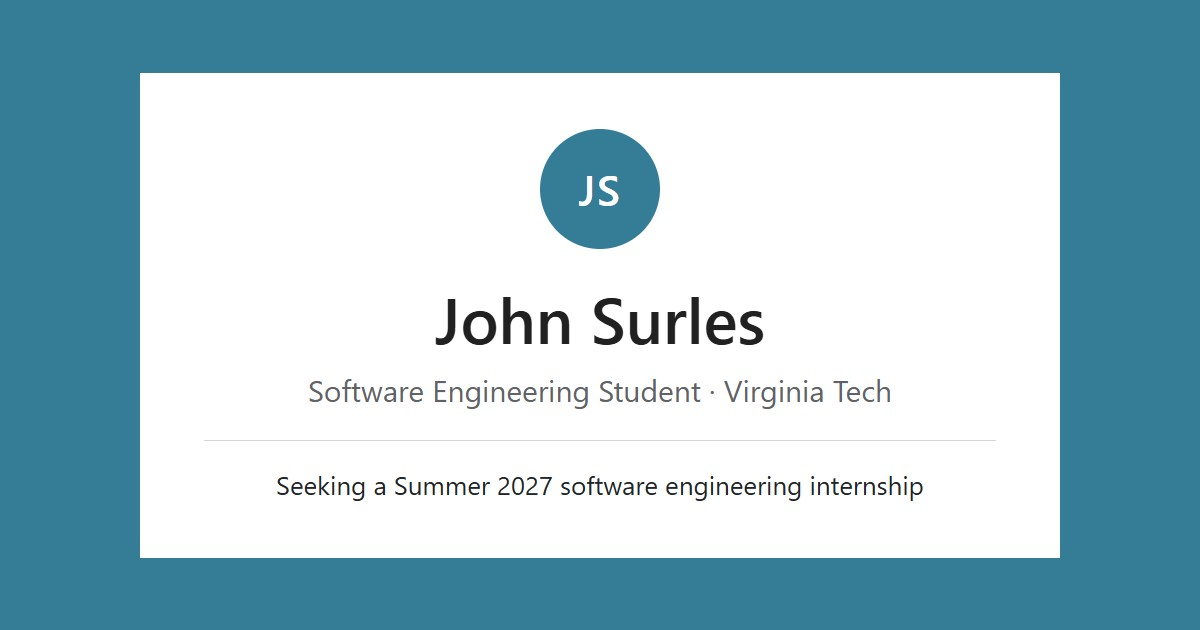
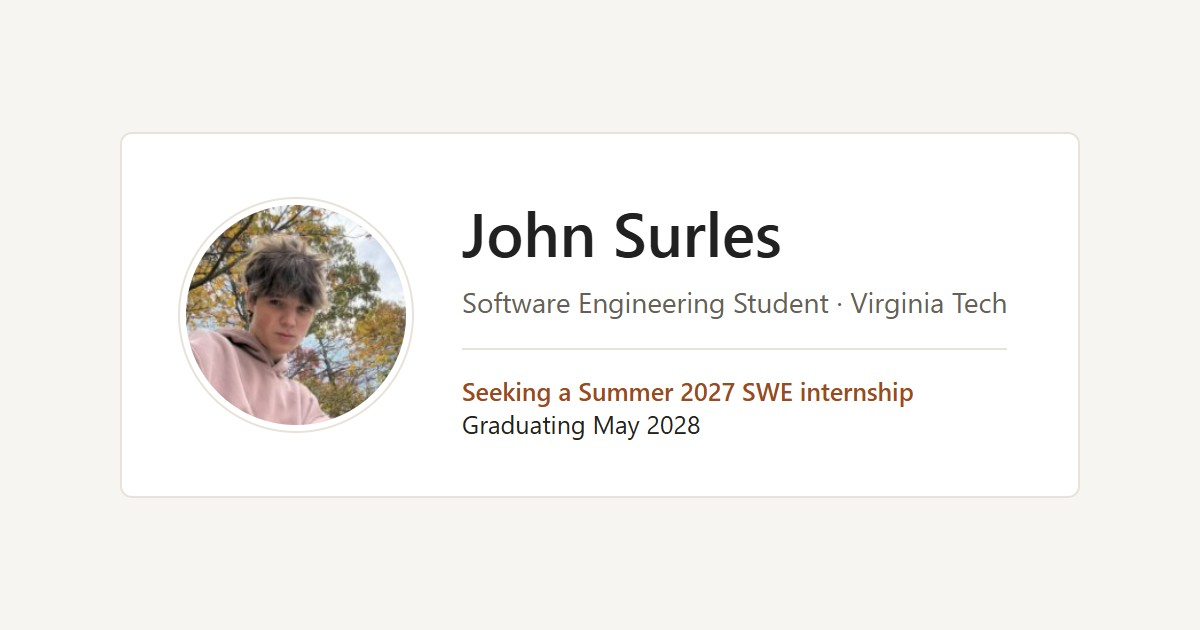
Profile photo and a warm palette matched to it
- LinkedIn profile photo (192px JPEG/WebP, about 14 KB) replaces the JS monogram.
- Warm neutral page and text with a rust accent (#9a4a1f, 6.2:1 on white) taken
  from the autumn leaves in the photo; muted text stays at 5.4:1 or better.
- Social card shows the photo; favicon and touch icon use the rust monogram.

diff --git a/scripts/social-card.html b/scripts/social-card.html
@@ -4,22 +4,25 @@
 <html lang="en"><head><meta charset="utf-8"><title>Social card</title>
 <style>
 *{box-sizing:border-box}html,body{margin:0}
-body{width:1200px;height:630px;display:grid;place-items:center;background:#357c96;font-family:Rubik,system-ui,'Segoe UI',Roboto,Arial,sans-serif;color:#212529}
-.card{width:920px;padding:56px 64px;background:#fff;text-align:center}
-.mark{display:grid;place-items:center;width:120px;height:120px;margin:0 auto 26px;border-radius:50%;background:#357c96;color:#fff;font-size:42px;font-weight:500;letter-spacing:.04em}
-h1{margin:0;font-size:64px;font-weight:500;color:rgba(0,0,0,.87)}
-.sub{margin:10px 0 0;font-size:30px;color:#5f6368}
-.status{margin:30px 0 0;padding-top:26px;border-top:1px solid rgba(0,0,0,.16);font-size:26px}
-body.icon{width:180px;height:180px;background:#357c96}
+body{width:1200px;height:630px;display:grid;place-items:center;background:#f7f5f2;font-family:Rubik,system-ui,'Segoe UI',Roboto,Arial,sans-serif;color:#24201d}
+.card{width:960px;padding:56px 64px;background:#fff;border:2px solid #e8e2db;border-radius:12px;display:flex;align-items:center;gap:56px}
+.photo{width:220px;height:220px;border-radius:50%;object-fit:cover;flex:none;box-shadow:0 0 0 6px #fff,0 0 0 8px #e8e2db}
+h1{margin:0;font-size:62px;font-weight:500;color:rgba(0,0,0,.87)}
+.sub{margin:10px 0 0;font-size:28px;color:#685f57}
+.status{margin:28px 0 0;padding-top:24px;border-top:2px solid #e8e2db;font-size:25px}
+.status b{color:#9a4a1f;font-weight:500}
+body.icon{width:180px;height:180px;background:#9a4a1f}
 body.icon .card{display:none}
 .icon-mark{display:none}body.icon .icon-mark{display:grid;place-items:center;width:180px;height:180px;color:#fff;font-size:72px;font-weight:500;letter-spacing:.04em}
 </style></head>
 <body>
 <div class="card">
- <div class="mark">JS</div>
- <h1>John Surles</h1>
- <p class="sub">Software Engineering Student · Virginia Tech</p>
- <p class="status">Seeking a Summer 2027 software engineering internship</p>
+ <img class="photo" src="../public/images/profile.jpg" alt="">
+ <div>
+  <h1>John Surles</h1>
+  <p class="sub">Software Engineering Student · Virginia Tech</p>
+  <p class="status"><b>Seeking a Summer 2027 SWE internship</b><br>Graduating May 2028</p>
+ </div>
 </div>
 <div class="icon-mark">JS</div>
 <script>if (location.hash === '#icon') document.body.className = 'icon';</script>

diff --git a/public/styles.css b/public/styles.css
@@ -2,15 +2,17 @@
    (links, active tab, monogram, focus). Change --accent and --accent-tint together; keep --accent at
    4.5:1 or better on white. */
 :root {
-  --page: #f4f5f7;
+  /* Warm neutrals with a rust accent taken from the autumn leaves in the profile photo
+     (#9a4a1f is about 6.2:1 on white; muted text is about 5.8:1 on white, 5.4:1 on the page). */
+  --page: #f7f5f2;
   --surface: #fff;
-  --line: #e1e4e8;
-  --accent: #1f6680;
-  --accent-tint: #e8f1f5;
-  --ink: #1f2328;
-  --muted: #5f6368;
-  --rule: rgba(0, 0, 0, .12);
-  --rule-strong: rgba(0, 0, 0, .16);
+  --line: #e8e2db;
+  --accent: #9a4a1f;
+  --accent-tint: #f8eee6;
+  --ink: #24201d;
+  --muted: #685f57;
+  --rule: rgba(60, 40, 20, .12);
+  --rule-strong: rgba(60, 40, 20, .16);
   font-family: Rubik, system-ui, -apple-system, 'Segoe UI', Roboto, 'Helvetica Neue', Arial, sans-serif;
   color: var(--ink);
 }
@@ -33,7 +35,7 @@ main { display: grid; gap: 12px; }
 
 /* Masthead */
 .masthead { padding: 28px 24px 24px; text-align: center; }
-.mark { display: grid; place-items: center; width: 88px; height: 88px; margin: 0 auto 14px; border-radius: 50%; background: var(--accent); color: #fff; font-size: 30px; font-weight: 500; letter-spacing: .04em; }
+.photo { display: block; width: 104px; height: 104px; margin: 0 auto 14px; border-radius: 50%; object-fit: cover; box-shadow: 0 0 0 3px var(--surface), 0 0 0 4px var(--line); }
 .masthead h1 { font-size: 26px; }
 .subtitle { margin-top: 4px; color: var(--muted); }
 .status { margin-top: 10px; font-size: 14px; color: var(--ink); }
